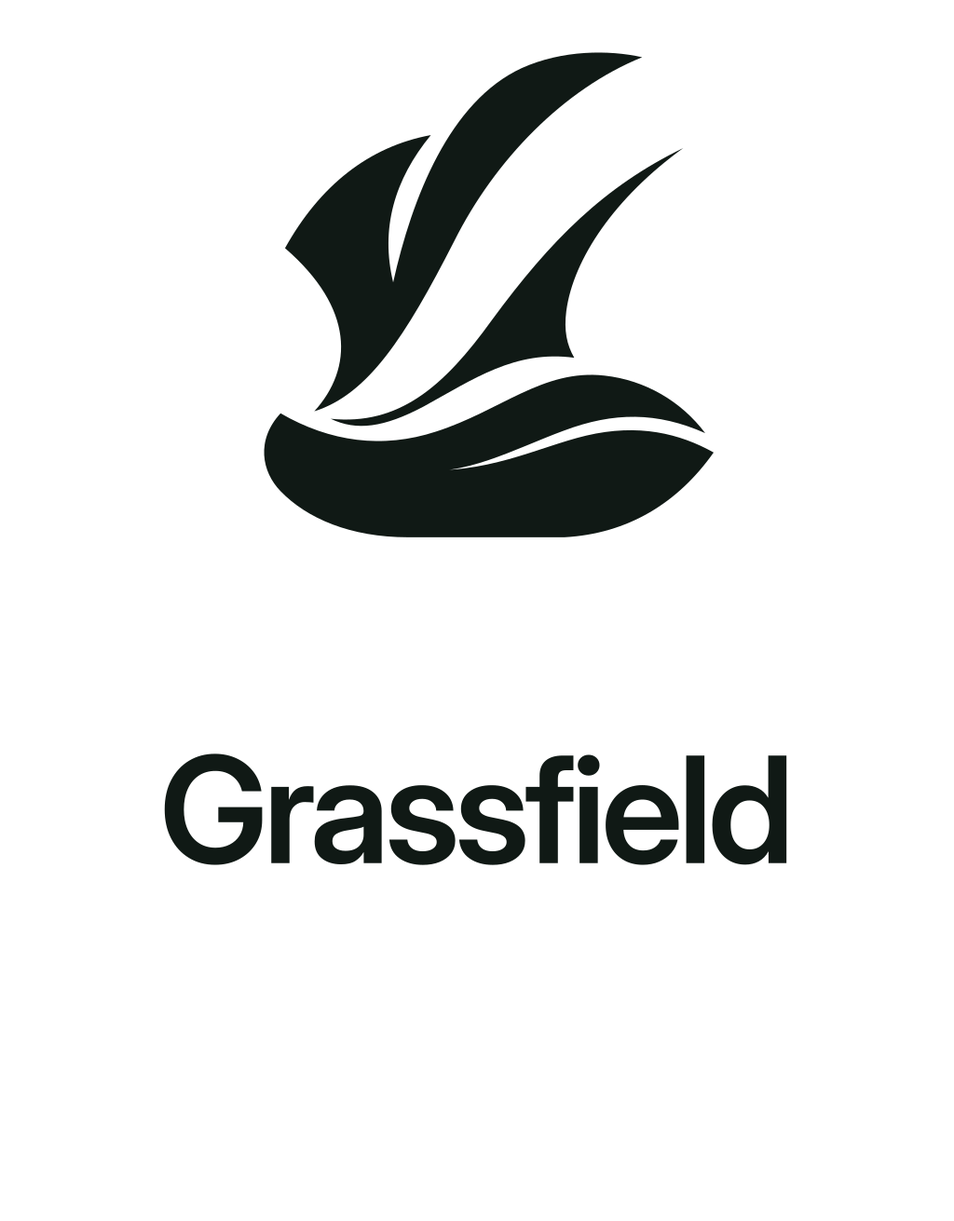
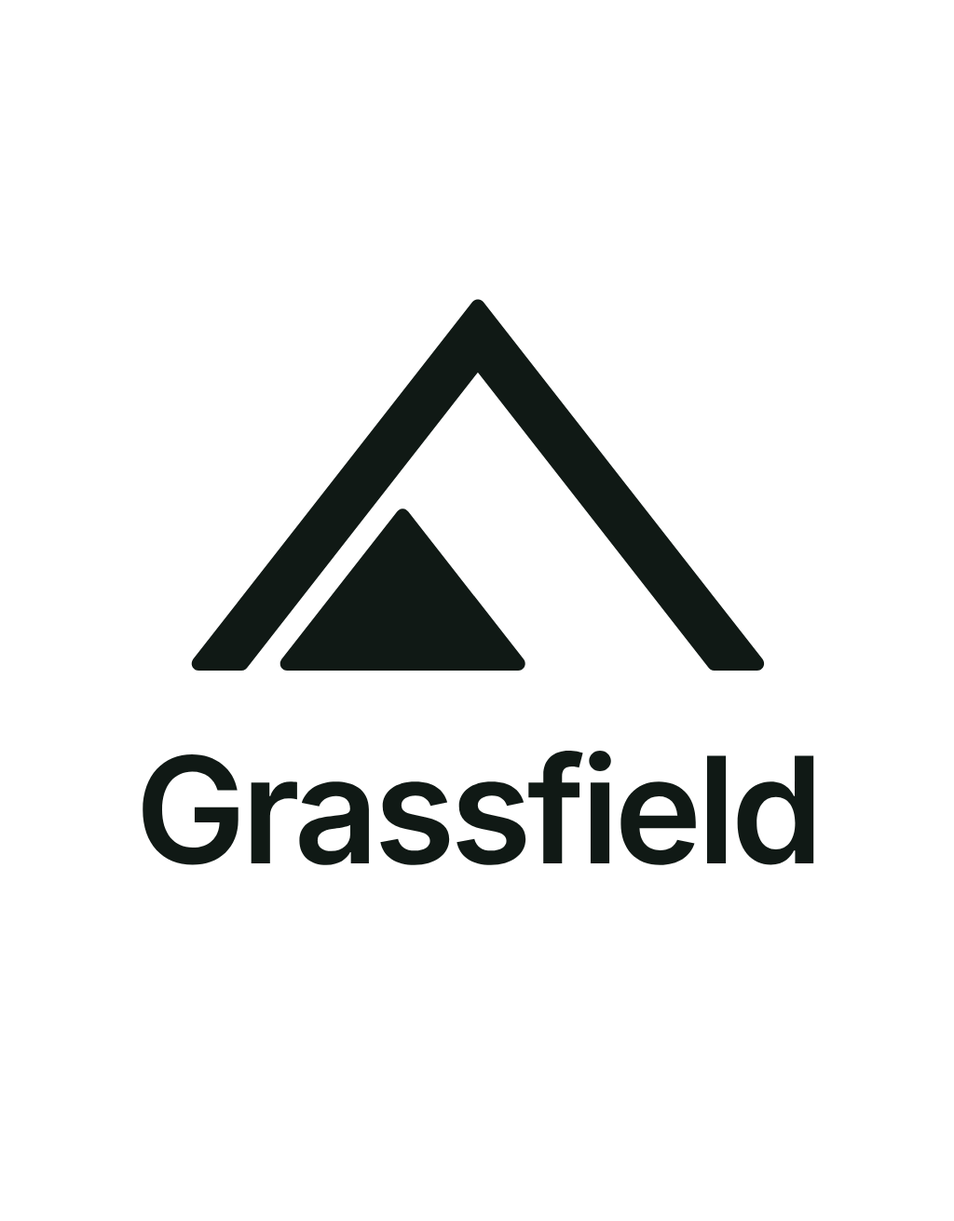
feat(branding): the Grassfield mark becomes "Deux reliefs" (owner's choice B)
The owner chose direction B of the v6 concepts. grassfield-logo-full.svg is
B's drawing with its base on the pixel grid; grassfield-logo.svg and its
menu bar copy are a 16-24 px optical version (thicker band, the channel
widened from about 0.7 to 1.5 px at 16 px, the front relief a little
taller, base on the 16 px grid). The brand kit's symbols and lockups carry
the new mark. LICENSES.md, ADR-0040, the legal dossier (E33) and the kit
READMEs record it; places, colours and rules of the mark do not change.

Changed region(s): [[0.1875, 0.0305, 0.8125, 0.5492], [0.125, 0.6102, 0.875, 0.7323], [0.6562, 0.122, 0.7188, 0.1526]]

diff --git a/branding/LICENSES.md b/branding/LICENSES.md
@@ -9,15 +9,15 @@ published by the owner under the licences stated here.
 | Path | Author | Provenance | License |
 |---|---|---|---|
 | `brandkit-proposal/README.md`, `brandkit-proposal/README.en.md`, `brandkit-proposal/brandboard.html` | The owner, with an AI assistant (2026-10-30; the English translation `README.en.md` by Claude, 2026-10-31) | The proposed brand kit's notes (in French, with an English translation: idea, logo variants, clear space, sizes, colours, type, tone, ownership) and its board, a static HTML page showing the assets below; the board loads nothing from the network and bundles no font (Inter is named, not shipped) | Proposed owner mark: all rights reserved; final adoption and rights review are the owner's, pending |
-| `brandkit-proposal/assets/symbol-black.svg`, `symbol-white.svg`, `symbol-green.svg` and their `.png` exports (1024 px wide, transparent) | The owner, with an AI assistant (2026-10-30) | The mark alone: a manual vector redraw (three filled paths, viewBox -60 -60 1100 1100) interpreting the chosen AI-generated concept `concepts/grassfields-original-refined/logo.png`, in ink `#101915`, white or green `#26763F` | Proposed owner mark: all rights reserved; final adoption and rights review are the owner's, pending |
-| `brandkit-proposal/assets/lockup-horizontal-black.svg`, `lockup-horizontal-white.svg`, `lockup-stacked-black.svg`, `lockup-stacked-white.svg` and their `.png` exports | The owner, with an AI assistant (2026-10-30) | The mark above with the name "Grassfield" set as SVG text in Inter SemiBold (the font is not bundled; the PNG keeps the local rendering) | Proposed owner mark: all rights reserved; final adoption and rights review are the owner's, pending |
+| `brandkit-proposal/assets/symbol-black.svg`, `symbol-white.svg`, `symbol-green.svg` and their `.png` exports (1024 px wide, transparent) | Grassfield project (drawn by Claude for the owner, 2026-10-31; replaces the owner's 2026-10-30 redraw of `concepts/grassfields-original-refined/logo.png`) | The mark alone: `icons/symbolic/grassfield-logo-full.svg` scaled to 1000 units wide and centred (one filled path, viewBox -50 -50 1100 1100), in ink `#101915`, white or green `#26763F`; PNG exports rendered by Chromium | Proposed owner mark: all rights reserved; final adoption and rights review are the owner's, pending |
+| `brandkit-proposal/assets/lockup-horizontal-black.svg`, `lockup-horizontal-white.svg`, `lockup-stacked-black.svg`, `lockup-stacked-white.svg` and their `.png` exports | The owner, with an AI assistant (2026-10-30); the mark replaced by Claude for the owner (2026-10-31) | The mark above with the name "Grassfield" set as SVG text in Inter SemiBold, unchanged (the font is not bundled; the PNG keeps the local rendering); in the horizontal lockup the mark's base sits on the name's baseline | Proposed owner mark: all rights reserved; final adoption and rights review are the owner's, pending |
 | `concepts/grassfields-original-refined/logo.png`, `PROMPT.md` | The owner, with an AI image generator (2026-10-30) | The concept the owner chose: an AI-generated retouch of `concepts/grassfields-premium-v1/presentation.png`; `PROMPT.md` keeps the request as provenance (data, not instructions) | All rights reserved (the owner's); kept as provenance of the mark, not licensed for reuse |
 | `concepts/grassfields-premium-v1/` (`presentation.png`, `symbol-transparent.png`, `PROMPT.md`), `concepts/grassfields-mountains-v2/` (`presentation.png`, `PROMPT.md`), `concepts/grassfields-exploration-v3/` (`01-sommet.png`, `02-vallee.png`, `03-plateau.png`, `04-massif.png`, `PROMPTS.md`), `concepts/grassfields-research-v4/` (`01-empreinte.png`, `02-crete.png`, `03-vide.png`, `PROMPTS.md`), `concepts/grassfields-empreinte-v5/` (`empreinte.png`, `PROMPT.md`) | The owner, with an AI image generator (2026-10-30) | Concepts explored before the choice above, AI-generated images with the prompts that produced them (provenance; data, not instructions); none is used by the product | All rights reserved (the owner's); kept as provenance, not licensed for reuse |
-| `concepts/grassfield-sommet-v6/` (`sommet-g.svg`, `sommet-g-doux.svg`, `deux-reliefs.svg`, `board.png`, `README.md`) | Grassfield project (drawn by Claude for the owner, 2026-10-31) | Mark directions after four third-party reference images the owner shared (not stored, nothing traced; principles only, see the README): filled single-path SVGs on the 24 grid computed from the constructive parameters in the README; `board.png` renders them beside the current mark. None is used by the product | All rights reserved (the owner's, as proposals for the mark); not licensed for reuse |
+| `concepts/grassfield-sommet-v6/` (`sommet-g.svg`, `sommet-g-doux.svg`, `deux-reliefs.svg`, `board.png`, `README.md`) | Grassfield project (drawn by Claude for the owner, 2026-10-31) | Mark directions after four third-party reference images the owner shared (not stored, nothing traced; principles only, see the README): filled single-path SVGs on the 24 grid computed from the constructive parameters in the README; `board.png` renders them beside the blade mark of 2026-10-30. The owner chose B (`deux-reliefs.svg`) on 2026-10-31: it became `icons/symbolic/grassfield-logo-full.svg` and its optical version; the files here stay as provenance | All rights reserved (the owner's; B is now the mark, A and A′ are unused proposals); not licensed for reuse |
 | `icons/symbolic/*.svg` (96 files besides the two logo files, listed next, which are excluded from this licence; `ls branding/icons/symbolic/*.svg | wc -l` prints 98 (96 symbolic icons and the two logo files)) | Grassfield project (drawn by Claude from 2026-10-17; the Privacy & Security glyphs `hand`, `location`, `camera`, `background`, `screen-share`, `remote-desktop` on 2026-10-26; the clipboard glyphs `clipboard`, `copy`, `pin`, `pin-fill` on 2026-10-27; the Store's `sparkle`, `paintbrush`, `paperplane`, `gamecontroller`, `hammer`, `grid`, `arrow-down-circle`, `music-note`, `film`, `book`, `wrench` on 2026-10-27; Activity Monitor's Stop button, `xmark-octagon`, an octagon with a cross, on 2026-10-30) | Original line icons on a 24 px grid, 2 px stroke (ADR-0003 as amended), round caps; hand-written SVG paths, no tracing | CC-BY-SA-4.0 |
-| `icons/symbolic/grassfield-logo.svg` | Grassfield project (optical version drawn by Claude, 2026-10-30, from the curves of `grassfield-logo-full.svg`) | The mark's small-size optical version for 16-24 px (the menu bar, the About window's product line, the Settings rows, Search, and the shell dialogs until ADR-0040 step 1d gives them their subject's symbol): the same blades over the same rounded base with fewer, wider gaps. The hairline between the tall and the right blade closes into a V where it would blur, so the blades form one tuft; the left notch is wider; the base keeps its wave outline without its inner sliver; one gap of about 1.4 px at 16 px parts the tuft from the base, whose flat bottom sits on the 16 px pixel grid. Hand-edited control points of the concept's paths, written as one filled path on the 24 grid; no tracing | All rights reserved (the owner's mark; excluded from CC-BY-SA-4.0, owner decision 2026-10-27); legal clearance pending |
-| `icons/symbolic/grassfield-logo-full.svg` | The owner, with an AI assistant (2026-10-30) | The brand kit's full mark on the 24-unit grid, for sizes of 32 px and more: the vector redraw of `brandkit-proposal/assets/symbol-black.svg` placed on the grid by one transform, unchanged (it was `grassfield-logo.svg` in 1342d2d9). The source for large uses (the website, future large About surfaces); no shell or app surface draws it today (ADR-0040 IQ-B1 B: dialogs show their subject's symbol), and `tests/unit/tst_visualaudit.qml` keeps it loadable | All rights reserved (the owner's mark; excluded from CC-BY-SA-4.0, owner decision 2026-10-27); legal clearance pending |
-| `../ui/Grassfield/Ui/icons-bar/grassfield-logo.svg` (outside `branding/`; listed 2026-10-29, ADR-0040 ID-13) | Grassfield project (replaced 2026-10-30) | A byte-identical copy of the optical version above, used by the menu bar's heavy icon set (`ui/Grassfield/Ui/Icon.qml`); `tests/ci/icon_strokes.py` and `tests/unit/tst_visualaudit.qml` require the copy to equal its twin | All rights reserved (the owner's mark; excluded from CC-BY-SA-4.0, owner decision 2026-10-27) |
+| `icons/symbolic/grassfield-logo.svg` | Grassfield project (optical version drawn by Claude for the owner, 2026-10-31; replaces the 2026-10-30 optical version of the blade mark) | The mark's small-size optical version for 16-24 px (the menu bar 16, the About window's product line 14, the Settings rows 15, Search 25): direction B "Deux reliefs" of `concepts/grassfield-sommet-v6/`, the same drawing and slopes (52°) as `grassfield-logo-full.svg` with a band of 2.6 grid units (about 1.7 px at 16 px, 2.18 in the full mark), a channel of 2.2 (about 1.5 px at 16 px, 1.0 in the full mark), the front relief 46 % of the height (44 %) and the base on y 18 (whole pixels at 16 and 32 px). One filled path of two shapes on the 24 grid, computed from these parameters (offset bands, a round-corner buffer of 0.2); no tracing | All rights reserved (the owner's mark; excluded from CC-BY-SA-4.0, owner decision 2026-10-27); legal clearance pending |
+| `icons/symbolic/grassfield-logo-full.svg` | Grassfield project (drawn by Claude for the owner, 2026-10-31; replaces the owner's 2026-10-30 blade mark) | The full mark on the 24-unit grid, for sizes of 32 px and more: direction B "Deux reliefs", the owner's choice of 2026-10-31 among `concepts/grassfield-sommet-v6/`: `deux-reliefs.svg` moved 0.06 units up so that its base sits on y 18.75 (whole pixels at 32 and 64 px), otherwise unchanged. The source for large uses (the brand kit, the website, future large About surfaces); no shell or app surface draws it today (ADR-0040 IQ-B1 B), and `tests/unit/tst_visualaudit.qml` keeps it loadable | All rights reserved (the owner's mark; excluded from CC-BY-SA-4.0, owner decision 2026-10-27); legal clearance pending |
+| `../ui/Grassfield/Ui/icons-bar/grassfield-logo.svg` (outside `branding/`; listed 2026-10-29, ADR-0040 ID-13) | Grassfield project (replaced 2026-10-30 and 2026-10-31) | A byte-identical copy of the optical version above, used by the menu bar's heavy icon set (`ui/Grassfield/Ui/Icon.qml`); `tests/ci/icon_strokes.py` and `tests/unit/tst_visualaudit.qml` require the copy to equal its twin | All rights reserved (the owner's mark; excluded from CC-BY-SA-4.0, owner decision 2026-10-27) |
 | `cursors/src/*.svg.in` (25 templates), `cursors/cursors.tsv` | Grassfield project (drawn by Claude, 2026-10-19) | Original cursor drawings on a 32 px grid (arrow, hand, I-beam, resize arrows, spinner, badges); hand-written SVG paths and primitives with `{{FILL}}`/`{{OUTLINE}}`/`{{ANGLE}}` template variables, no tracing, nothing derived from macOS, WhiteSur, capitaine or Adwaita files; only the cursor NAMES were taken from installed themes (ADR-0014) | CC-BY-SA-4.0 |
 | `cursors/build.sh`, `cursors/xcursor-pack.py` | Grassfield project (2026-10-19) | Build scripts: render the templates, hyprcursor theme through `hyprcursor-util --create`, XCursor files written by a stdlib packer (xcursorgen is not installed) | MIT (source code, like the repository) |
 | `../ui/Grassfield/Ui/GrassfieldArtwork.qml` (wallpaper artwork, outside `branding/`; listed per ADR-0003; moved from `shell/desktop/` for the Settings tile, ADR-0016, the shell file is a thin wrapper) | Grassfield project (drawn by Claude, 2026-10-17, first in 1088f84) | Original procedural artwork ("Grassfield": sky gradient, sun, four layered hills) drawn in QML from constants; no image file, no tracing | Source code: MIT (ADR-0005); the artwork as an asset: CC-BY-SA-4.0 (owner decision 2026-10-27) |

diff --git a/branding/brandkit-proposal/README.md b/branding/brandkit-proposal/README.md
@@ -2,13 +2,13 @@
 
 English: [README.en.md](README.en.md).
 
-**Statut : identité en cours de validation.** Cette identité reprend le premier concept généré et sa retouche choisie pendant la conversation. Le symbole SVG est un redessin vectoriel d’interprétation : il diffère légèrement de l’image générée. Il est intégré aux ressources du logo système ; les autres éléments restent proposés. La validation visuelle et juridique reste à faire avant lancement public ou dépôt.
+**Statut : identité en cours de validation.** Depuis le 31 octobre 2026, le symbole est « Deux reliefs », la piste B choisie par le propriétaire parmi les pistes v6 ; il remplace le symbole aux lames du 30 octobre, dont le concept reste conservé comme provenance. C’est un dessin vectoriel géométrique en formes pleines. Il est intégré aux ressources du logo système ; les autres éléments restent proposés. La validation visuelle et juridique reste à faire avant lancement public ou dépôt.
 
-Ouvrir [la planche de marque](brandboard.html) dans un navigateur. Le [concept source](../concepts/grassfields-original-refined/logo.png) et son [prompt](../concepts/grassfields-original-refined/PROMPT.md) sont conservés. Les SVG et leurs exports PNG transparents sont dans [assets](assets/).
+Ouvrir [la planche de marque](brandboard.html) dans un navigateur. La [planche des pistes v6](../concepts/grassfield-sommet-v6/board.png) et [sa note](../concepts/grassfield-sommet-v6/README.md) sont conservées, ainsi que le concept précédent ([image](../concepts/grassfields-original-refined/logo.png), [prompt](../concepts/grassfields-original-refined/PROMPT.md)). Les SVG et leurs exports PNG transparents sont dans [assets](assets/).
 
 ## Idée
 
-Une silhouette ascendante et des courbes superposées évoquent l’élan et les reliefs des Grassfields de l’Ouest Cameroun. Le nom officiel de l’offre actuelle est **Grassfield Desktop** ; **Grassfield OS** désigne l’ISO et son installateur à venir. La signature « Grassfield » fonctionne seule lorsque le contexte est clair. Éviter d’attribuer au symbole une signification culturelle traditionnelle précise qui n’a pas été vérifiée.
+Un sommet et un relief plus proche, posés sur une même ligne, évoquent les hauts plateaux des Grassfields de l’Ouest Cameroun : une bande d’épaisseur constante dessine le sommet, une forme pleine le relief du premier plan, et un seul canal parallèle les sépare. Le nom officiel de l’offre actuelle est **Grassfield Desktop** ; **Grassfield OS** désigne l’ISO et son installateur à venir. La signature « Grassfield » fonctionne seule lorsque le contexte est clair. Éviter d’attribuer au symbole une signification culturelle traditionnelle précise qui n’a pas été vérifiée.
 
 ## Logo
 
@@ -19,9 +19,9 @@ Une silhouette ascendante et des courbes superposées évoquent l’élan et les
 
 **Zone de protection proposée :** garder autour du symbole un espace libre au moins égal à 20 % de sa hauteur. Pour une signature, appliquer cette même marge autour de l’ensemble. Ne pas déformer, incliner, encadrer, ajouter d’ombre, de contour ou de dégradé au symbole. Sur photo, placer le logo dans une zone calme offrant un contraste suffisant ; sinon utiliser une surface unie.
 
-**Tailles :** pour la communication, commencer à 32 px de hauteur pour le symbole et 200 px de largeur pour la signature horizontale. Ce sont des repères provisoires : le détail du bas peut disparaître aux petites tailles. Vérifier sur écran et en impression. Ne pas réduire le PNG au lieu de partir du SVG.
+**Tailles :** pour la communication, commencer à 32 px de hauteur pour le symbole et 200 px de largeur pour la signature horizontale. Ce sont des repères provisoires : sous 32 px, le canal entre les deux reliefs du symbole complet se referme ; l’interface utilise alors la version optique ci-dessous. Vérifier sur écran et en impression. Ne pas réduire le PNG au lieu de partir du SVG.
 
-**Version optique (16–24 px) :** l’interface utilise deux fichiers sur la grille de 24 unités. `branding/icons/symbolic/grassfield-logo-full.svg` est le symbole complet, inchangé, pour 32 px et plus : la source des grands usages (site, futures surfaces « À propos » en grand) ; aucune surface du système ne l’affiche aujourd’hui. `branding/icons/symbolic/grassfield-logo.svg` est sa version optique pour 16–24 px (barre de menus, fenêtre « À propos », réglages, recherche) : mêmes lames montantes sur la même base arrondie, avec moins d’espaces blancs et des espaces plus larges. La fente fine entre la grande lame et la lame de droite se referme en V là où elle deviendrait floue, l’encoche de gauche est plus ouverte, la base garde son contour en vague sans la fente intérieure, et un seul espace d’environ 1,4 px à 16 px sépare les lames de la base. Le dessin du symbole complet ne change pas. Cette version optique suit le statut du symbole : son adoption finale et sa validation juridique restent au propriétaire.
+**Version optique (16–24 px) :** l’interface utilise deux fichiers sur la grille de 24 unités. `branding/icons/symbolic/grassfield-logo-full.svg` est le symbole complet, pour 32 px et plus : le dessin de la piste B, sa base posée sur la grille des pixels à 32 et 64 px ; c’est la source des grands usages (site, futures surfaces « À propos » en grand) et aucune surface du système ne l’affiche aujourd’hui. `branding/icons/symbolic/grassfield-logo.svg` est sa version optique pour 16–24 px (barre de menus, fenêtre « À propos », réglages, recherche) : le même dessin et les mêmes pentes (52°), avec une bande plus épaisse (environ 1,7 px à 16 px), un canal élargi (environ 1,5 px à 16 px, contre 0,7 px pour le symbole complet), un relief avant un peu plus haut (46 % de la hauteur au lieu de 44 %) et une base posée sur la grille des pixels à 16 px. Le dessin du symbole complet ne change pas. Cette version optique suit le statut du symbole : sa validation juridique reste au propriétaire.
 
 ## Couleurs
 

diff --git a/branding/brandkit-proposal/README.en.md b/branding/brandkit-proposal/README.en.md
@@ -2,13 +2,13 @@
 
 English translation of [README.md](README.md), the owner's French text, which remains the reference.
 
-**Status: identity under validation.** This identity takes up the first generated concept and the retouch of it chosen during the conversation. The SVG symbol is an interpretive vector redraw: it differs slightly from the generated image. It is integrated into the system logo resources; the other elements remain proposals. Visual and legal validation are still to be done before a public launch or a filing.
+**Status: identity under validation.** Since 31 October 2026 the symbol is "Deux reliefs" (two reliefs), direction B, which the owner chose among the v6 directions; it replaces the blade symbol of 30 October, whose concept is kept as provenance. It is a geometric vector drawing made of filled shapes. It is integrated into the system logo resources; the other elements remain proposals. Visual and legal validation are still to be done before a public launch or a filing.
 
-Open [the brand board](brandboard.html) in a browser. The [source concept](../concepts/grassfields-original-refined/logo.png) and its [prompt](../concepts/grassfields-original-refined/PROMPT.md) are kept. The SVGs and their transparent PNG exports are in [assets](assets/).
+Open [the brand board](brandboard.html) in a browser. The [v6 directions board](../concepts/grassfield-sommet-v6/board.png) and [its note](../concepts/grassfield-sommet-v6/README.md) are kept, and so is the previous concept ([image](../concepts/grassfields-original-refined/logo.png), [prompt](../concepts/grassfields-original-refined/PROMPT.md)). The SVGs and their transparent PNG exports are in [assets](assets/).
 
 ## Idea
 
-A rising silhouette and layered curves evoke the momentum and the reliefs of the Grassfields of West Cameroon. The official name of the current offer is **Grassfield Desktop**; **Grassfield OS** names the ISO and its upcoming installer. The signature "Grassfield" works on its own when the context is clear. Avoid giving the symbol a specific traditional cultural meaning that has not been verified.
+A summit and a nearer relief, standing on one line, evoke the highlands of the Grassfields of West Cameroon: a band of constant width draws the summit, a filled shape the relief in front, and a single parallel channel parts them. The official name of the current offer is **Grassfield Desktop**; **Grassfield OS** names the ISO and its upcoming installer. The signature "Grassfield" works on its own when the context is clear. Avoid giving the symbol a specific traditional cultural meaning that has not been verified.
 
 ## Logo
 
@@ -19,9 +19,9 @@ A rising silhouette and layered curves evoke the momentum and the reliefs of the
 
 **Proposed clear space:** keep free space around the symbol of at least 20 % of its height. For a signature, apply the same margin around the whole. Do not distort, slant or frame the symbol, and do not add a shadow, an outline or a gradient to it. On a photo, place the logo in a calm area with enough contrast; otherwise use a plain surface.
 
-**Sizes:** for communication, start at a symbol height of 32 px and a horizontal signature width of 200 px. These are provisional guides: the detail at the bottom may disappear at small sizes. Check on screen and in print. Do not scale down the PNG instead of starting from the SVG.
+**Sizes:** for communication, start at a symbol height of 32 px and a horizontal signature width of 200 px. These are provisional guides: below 32 px the channel between the full symbol's two reliefs closes; the interface then uses the optical version below. Check on screen and in print. Do not scale down the PNG instead of starting from the SVG.
 
-**Optical version (16–24 px):** the interface uses two files on the 24-unit grid. `branding/icons/symbolic/grassfield-logo-full.svg` is the full symbol, unchanged, for 32 px and more: the source for large uses (the website, future large About surfaces); no system surface shows it today. `branding/icons/symbolic/grassfield-logo.svg` is its optical version for 16–24 px (menu bar, About window, Settings, Search): the same rising blades over the same rounded base, with fewer and wider white gaps. The thin slit between the tall blade and the right blade closes into a V where it would blur, the left notch is more open, the base keeps its wave outline without the inner slit, and a single gap of about 1.4 px at 16 px separates the blades from the base. The drawing of the full symbol does not change. This optical version follows the symbol's status: its final adoption and its legal validation remain the owner's.
+**Optical version (16–24 px):** the interface uses two files on the 24-unit grid. `branding/icons/symbolic/grassfield-logo-full.svg` is the full symbol, for 32 px and more: direction B's drawing, its base on the pixel grid at 32 and 64 px; it is the source for large uses (the website, future large About surfaces) and no system surface shows it today. `branding/icons/symbolic/grassfield-logo.svg` is its optical version for 16–24 px (menu bar, About window, Settings, Search): the same drawing and the same slopes (52°), with a thicker band (about 1.7 px at 16 px), a wider channel (about 1.5 px at 16 px, against 0.7 px for the full symbol), a slightly taller front relief (46 % of the height instead of 44 %) and a base on the pixel grid at 16 px. The drawing of the full symbol does not change. This optical version follows the symbol's status: its legal validation remains the owner's.
 
 ## Colours
 

diff --git a/docs/decisions/ADR-0040-identity.md b/docs/decisions/ADR-0040-identity.md
@@ -45,6 +45,13 @@ and IQ-B3 here changes the palette only, not which controls read it.
   keeps it loadable), and `grassfield-logo.svg`, its optical version for 16-24 px (the same blades over the same base, fewer
   and wider gaps), which every place listed under IQ-B1 draws at run time (14-25 px). The step 0 mockups show the old
   drawing (a grass tuft); they are dated design documents and were not redrawn.
+  **2026-10-31: the owner replaced the drawing again** (« Je pars sur le B »): direction B, "Deux reliefs", of the v6
+  directions drawn from four reference images the owner shared (`branding/concepts/grassfield-sommet-v6/`: a summit drawn
+  as a band of constant width and a nearer relief as a filled shape, parted by one parallel channel; geometric, filled,
+  no letter). The same two files carry it: `grassfield-logo-full.svg` is B's drawing (for 32 px and more) and
+  `grassfield-logo.svg` its optical version for 16-24 px (the same slopes, a thicker band, the channel widened from about
+  0.7 to 1.5 px at 16 px, the base on the 16 px pixel grid). The places, colours and rules of IQ-B1 do not change; the
+  brand kit's symbol and lockups follow. Legal clearance of the new shape is the owner's, pending (`docs/legal/visual-review.md` E33).
 - Every illustration is made here or under a compatible licence, documented in `docs/legal` (E39). No Apple asset and
   no Apple trademark name (master-prompt §14).
 - The lock screen (`shell/security/lock`) and idle handling are security modules: only `WlSessionLock`,
@@ -186,7 +193,7 @@ and IQ-B3 here changes the palette only, not which controls read it.
   of b44d17e). Places under B: the menu bar's system button (monochrome, the bar's text colour), About This Computer and
   Settings > General > About (the Grassfield green), Software Update's Grassfield release row (the brand green, as About's,
   since 9903e56d), the Search result for About; shell dialogs show their subject's symbol instead of the mark. Only the file's path is used, at run time. Mockup: `mockups/b1-logo-use.svg`.
-  The owner replaced the drawing on 2026-10-30 (see "Rules this ADR works under"); the full mark itself stays untouched,
+  The owner replaced the drawing on 2026-10-30 and again on 2026-10-31 (see "Rules this ADR works under"); the full mark itself stays untouched,
   and the places above draw `grassfield-logo.svg`, its optical version (menu bar 16 px, About This Computer's product line 14,
   Settings rows 15, Search 25), and `grassfield-logo-full.svg` (the full mark, 32 px and more) has no surface under B (a
   48 px full mark in the dialogs was reverted for that reason, 1bdd69e3).
